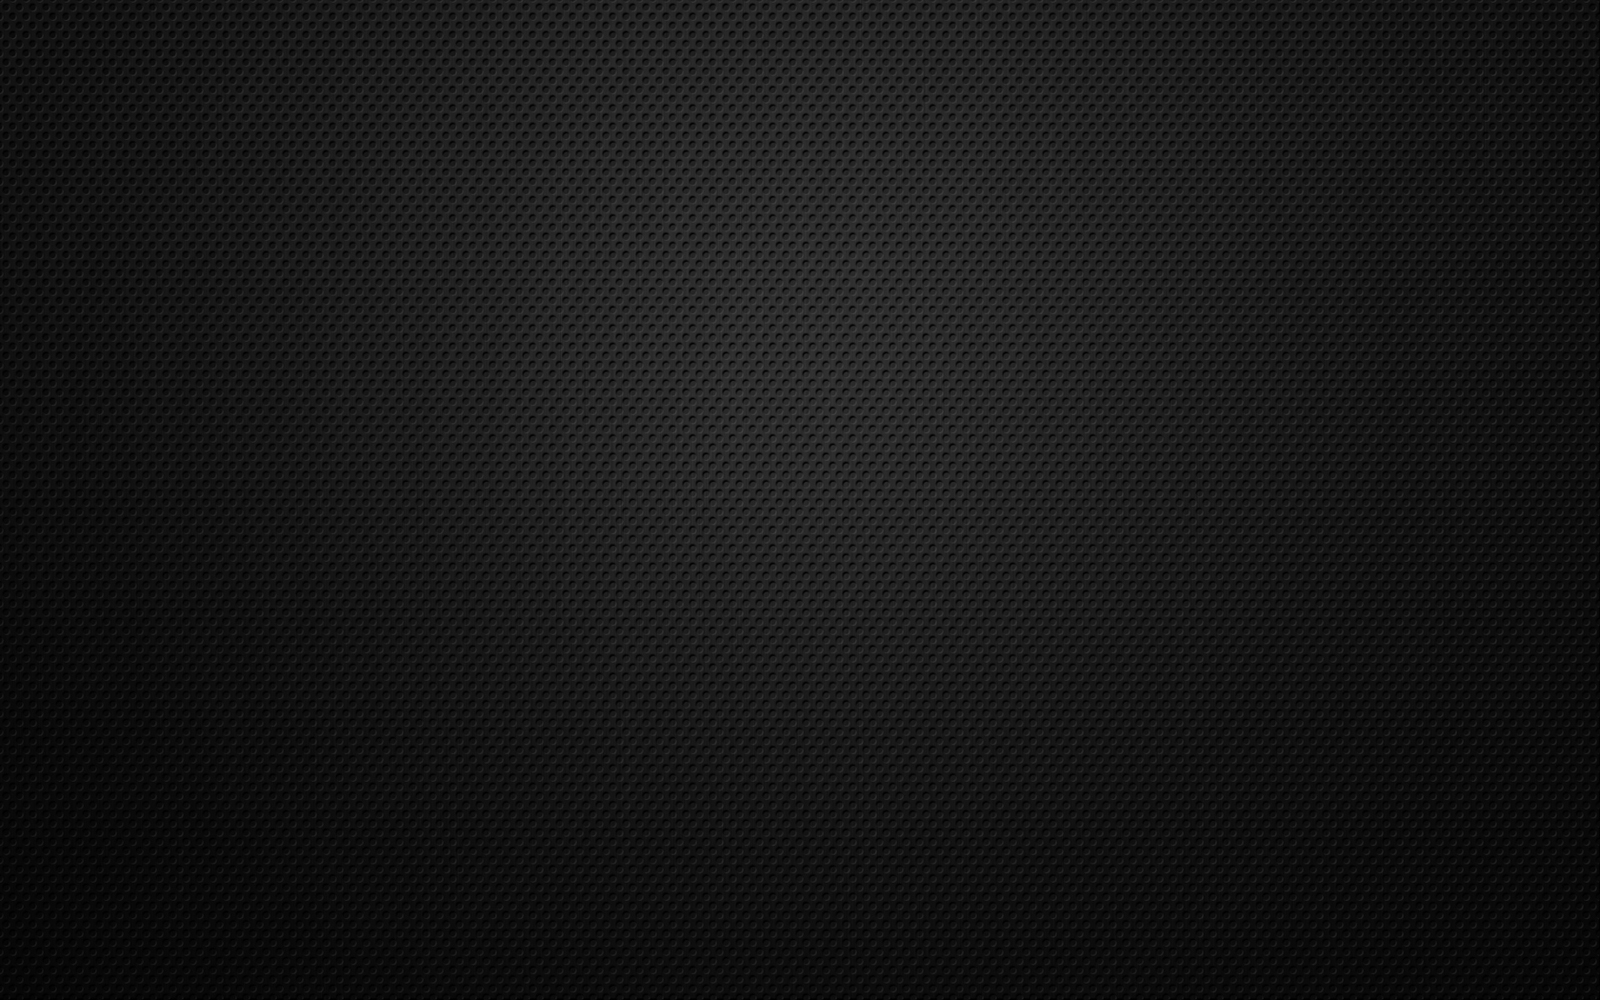
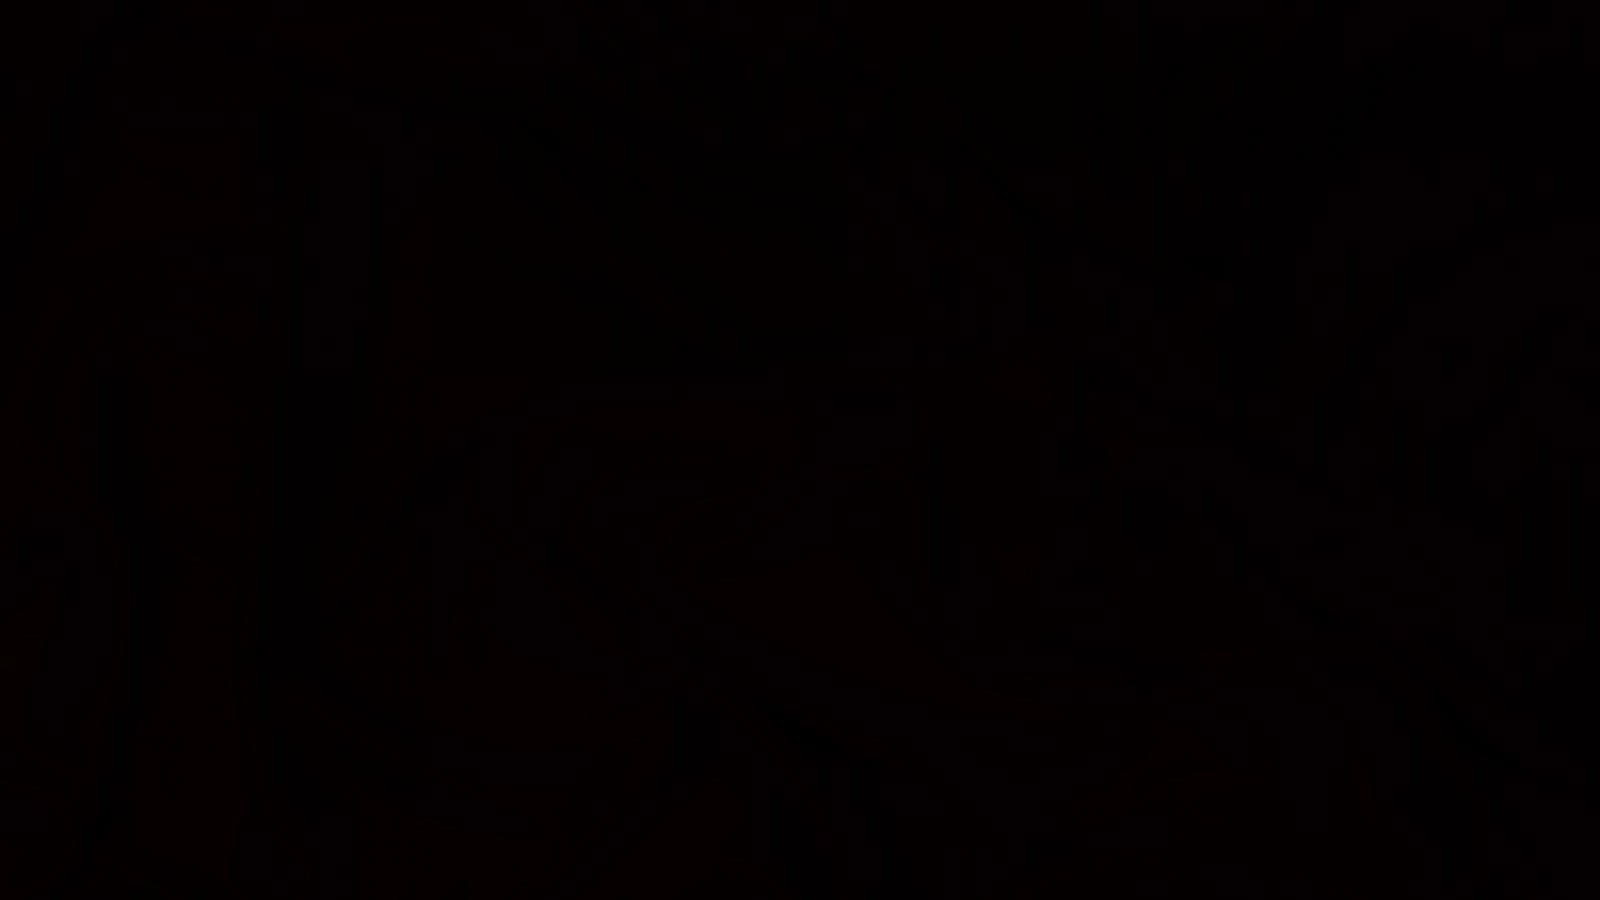
changed css

diff --git a/src/datascripts/files/main_style.css b/src/datascripts/files/main_style.css
@@ -2,35 +2,35 @@
  ul, ol, li, h1, h2, h3, h4, h5, h6, pre, form, body, html, p, blockquote, fieldset, input { margin: 0; padding: 0; }
  a img { border: 0; }
  a { text-decoration: none; }
- ::-webkit-input-placeholder { color: #626262; }
- :-moz-placeholder { color: #626262; }
- ::-moz-placeholder { color: #626262; }
- :-ms-input-placeholder { color: #626262; }
+ ::-webkit-input-placeholder { color: #000000; }
+ :-moz-placeholder { color: #000000; }
+ ::-moz-placeholder { color: #000000; }
+ :-ms-input-placeholder { color: #000000; }
  #header .wsite-search-input::-webkit-input-placeholder { color: #fff; }
  #header .wsite-search-input:-moz-placeholder { color: #fff; }
  #header .wsite-search-input::-moz-placeholder { color: #fff; }
  #header .wsite-search-input:-ms-input-placeholder { color: #fff; }
  html { height: 100%; }
- body { height: 100%; font-family: 'Open Sans', sans-serif; font-size:16px; line-height:1.75em; color:#666666; background: #232323 url('theme/default-bg.jpg?1419138491') center center no-repeat; background-size: cover; background-attachment: fixed; }
+ body { height: 100%; font-family: 'Open Sans', sans-serif; font-size:16px; line-height:1.75em; color:#000000; background: #000000 url('theme/default-bg.jpg?1419138491') center center no-repeat; background-size: cover; background-attachment: fixed; }
  .container { margin: 0 auto; width:960px; }
  #header-wrap, #main-wrap, #footer-wrap { width:100%; margin:0 auto; }
  a { color: #2a92e5 ; }
  a:hover { color: #2180cc; }
- h2 { font-size: 26px; padding: .5em 0 .2em 0; line-height: 1.2em; font-weight: 600; color:#333; text-transform:uppercase; }
- div.paragraph { font-size: 16px; line-height: 1.5; padding: .5em 0; color: #666; }
- p { font-size: 16px; line-height: 1.5; padding: .5em 0; color: #666; }
- blockquote { font-size: 16px; line-height: 28px; color: #666666; padding: 1em; margin: 2em 0; border-left: 0px !important; }
+ h2 { font-size: 26px; padding: .5em 0 .2em 0; line-height: 1.2em; font-weight: 600; color:#000000; text-transform:uppercase; }
+ div.paragraph { font-size: 16px; line-height: 1.5; padding: .5em 0; color: #000000; }
+ p { font-size: 16px; line-height: 1.5; padding: .5em 0; color: #000000; }
+ blockquote { font-size: 16px; line-height: 28px; color: #000000; padding: 1em; margin: 2em 0; border-left: 0px !important; }
  div#content {min-height:400px;}
  .styled-hr { background-color: #ccc; height: 2px; }
  #splash-wrap .styled-hr { background-color: #fff; }
- .tall-header-page, .short-header-page, .no-header-page, .landing-page { background: #232323; }
+ .tall-header-page, .short-header-page, .no-header-page, .landing-page { background: #000000; }
  .tall-header-page .wsite-background, .short-header-page .wsite-background, .landing-page .wsite-background { background: transparent url('theme/default-bg.jpg?1419138491') center center no-repeat; background-size: cover; background-attachment: fixed; }
  .tall-header-page, .landing-page, .short-header-page { background-image: none; }
  .tall-header-page #header-wrap { padding: 25px 0 12px; }
  .landing-page #header-wrap { padding: 90px 0 12px 0; -moz-box-sizing: border-box; box-sizing: border-box; height: 630px; overflow: hidden; }
  .short-header-page #header-wrap { padding: 25px 0 12px; }
  .splash-page #header-wrap { padding: 25px 0 0; height: 100%; -moz-box-sizing: border-box; box-sizing: border-box; }
- .no-header-page #header-wrap { background: #343434; padding: 25px 0; }
+ .no-header-page #header-wrap { background: #000000; padding: 25px 0; }
  #logo, #logo a { font-size: 24px; font-weight: 500; font-family: 'Open Sans', sans-serif; color: #fff; text-transform: uppercase; }
  #header { border-collapse: collapse; border-spacing: 0; height: 40px; }
  #wsite-title, #logo img { display: block; max-height: 60px; overflow: hidden; }
@@ -76,13 +76,13 @@
  .nav ul li#active, .nav ul li:hover { border:2px solid #fff; border-radius:4px; padding:6px 13px; }
  .nav ul li a { float:left; display: block; color:#fff; text-decoration:none; text-transform:uppercase; font-weight: 500; border: 0; outline: 0; list-style-type: none; font-size:14px; line-height:23px; }
  #nav-wrap .container ul li#active a, #nav-wrap .container ul li a:hover { color: #fff; background: none !important; border: 0; }
- .landing-page:before, .splash-page:before, .tall-header-page:before, .short-header-page:before { content: ''; width: 100%; height: 130px; position: fixed; top: 0; left: 0; background: transparent url('theme/menu-bg.png?1419138491') left top repeat; z-index: 1; }
+ .landing-page:before, .splash-page:before, .tall-header-page:before, .short-header-page:before { content: ''; width: 100%; height: 130px; position: fixed; top: 0; left: 0; background: #000000 url('theme/menu-bg.png?1419138491') left top repeat; z-index: 1; }
  #wsite-menus .wsite-menu { position:relative; margin-top:11px; }
  #wsite-menus .wsite-menu li ul:after { content: ""; width: 0px; height: 0px; border-style: none; border-width: 0 0px 0px 0px; border-color: transparent transparent transparent transparent; position:absolute; top:-6px; left:16px; }
- #wsite-menus .wsite-menu:after { content: ""; width: 0px; height: 0px; border-style: solid; border-width: 0 5.5px 6px 5.5px; border-color: transparent transparent #232323 transparent; position:absolute; top:-6px; left:16px; }
+ #wsite-menus .wsite-menu:after { content: ""; width: 0px; height: 0px; border-style: solid; border-width: 0 5.5px 6px 5.5px; border-color: transparent transparent #000000 transparent; position:absolute; top:-6px; left:16px; }
  #wsite-menus .wsite-menu li:first-child a { -moz-border-radius-topleft: 3px; -moz-border-radius-topright: 3px; -webkit-border-top-left-radius: 3px; -webkit-border-top-right-radius: 3px; border-top-right-radius: 3px; border-top-left-radius: 3px; }
  #wsite-menus .wsite-menu li:last-child a { -moz-border-radius-bottomleft: 3px; -moz-border-radius-bottomright: 3px; -webkit-border-bottom-left-radius: 3px; -webkit-border-bottom-right-radius: 3px; border-bottom-left-radius: 3px; border-bottom-right-radius: 3px; }
- #wsite-menus .wsite-menu li a { background: #232323; font-family: 'Open Sans', sans-serif; font-size:13px; color:#cecece; border:0; border-bottom: 1px solid #313131; }
+ #wsite-menus .wsite-menu li a { background: #000000; font-family: 'Open Sans', sans-serif; font-size:13px; color:#cecece; border:0; border-bottom: 1px solid #313131; }
  #wsite-menus .wsite-menu li a:hover { color:#fff; background:#2a2a2a ; }
  #banner td { vertical-align: middle !important; text-align: center; }
  #banner h2, #splash-wrap h2 { color: #fff; font-size: 60px; padding: 0px; }
@@ -120,7 +120,7 @@
  .wslide-caption-bg { background-color: #288ad8 !important; opacity: 0.85 !important; filter: alpha(opacity=85) !important; }
  .wslide-caption:before { content: ''; display: inline-block; vertical-align: middle; height: 100%; }
  .wslide-caption-text { display: inline-block; vertical-align: middle; text-align: center !important; width: 100%; -moz-box-sizing: border-box; box-sizing: border-box; font-size: 14px; }
- #footer-wrap { text-align:right; background-color:#232323; font-size:13px; color:#999999; }
+ #footer-wrap { text-align:right; background-color:#000000; font-size:13px; color:#999999; }
  #footer-wrap .container { padding: 50px 0 20px; }
  #footer-wrap .container h2 { border-bottom: 1px solid #3b3b3b; color: #fff; font-size: 14px; margin-bottom: 10px; padding-bottom: 8px; font-weight:normal; }
  #footer-wrap .container div.paragraph { color: #999; font-size: 13px; }
@@ -129,12 +129,12 @@
  #footer-wrap .paragraph ul #footer-wrap .paragraph ol { margin: 0 !important; padding: 0 !important; }
  #footer-wrap .paragraph li { list-style: none; background: url(theme/bullets.png?1419138491) no-repeat left 8px; padding-left: 15px !important; }
  #footer-wrap .wsite-form-container { text-align:left; margin-top:0px !important; }
- #footer-wrap .wsite-form-input, #footer-wrap .wsite-search-element-input { font-family:'Open Sans',sans-serif; font-size: 13px; color: #626262; background: #181818; border: 0; padding: 10px 6px !important; -webkit-border-radius: 5px; -moz-border-radius: 5px; border-radius: 5px; }
- #footer-wrap .form-select { color: #626262; border: 0; font-size: 13px; font-family:'Open Sans',sans-serif; font-style: italic; padding: 10px; width: 380px ; height: 40px!important; line-height: 15px; background: #181818; -webkit-border-radius: 5px; -moz-border-radius: 5px; border-radius: 5px; }
- .wsite-form-label { display: inline-block; color:#626262; font-family: 'Open Sans', sans-serif; font-size:13px; font-style:italic; font-weight:normal; }
- .form-radio-container { color:#626262 ; font-size:13px; font-family: 'Open Sans', sans-serif; }
- .wsite-form-input, .wsite-search-element-input { font-family:'Open Sans',sans-serif; font-size:13px; color:#626262; background:#e5e5e5; border:0; padding: 10px 6px !important; -webkit-border-radius:5px; -moz-border-radius:5px; border-radius:5px; }
- .form-select { color:#626262; border: 0; font-size:13px; font-family:'Open Sans',sans-serif; font-style:italic; padding:10px; width:380px ; height:40px!important; line-height:15px; background:#e5e5e5; -webkit-border-radius:5px; -moz-border-radius:5px; border-radius:5px; }
+ #footer-wrap .wsite-form-input, #footer-wrap .wsite-search-element-input { font-family:'Open Sans',sans-serif; font-size: 13px; color: #000000; background: #181818; border: 0; padding: 10px 6px !important; -webkit-border-radius: 5px; -moz-border-radius: 5px; border-radius: 5px; }
+ #footer-wrap .form-select { color: #000000; border: 0; font-size: 13px; font-family:'Open Sans',sans-serif; font-style: italic; padding: 10px; width: 380px ; height: 40px!important; line-height: 15px; background: #181818; -webkit-border-radius: 5px; -moz-border-radius: 5px; border-radius: 5px; }
+ .wsite-form-label { display: inline-block; color:#000000; font-family: 'Open Sans', sans-serif; font-size:13px; font-style:italic; font-weight:normal; }
+ .form-radio-container { color:#000000 ; font-size:13px; font-family: 'Open Sans', sans-serif; }
+ .wsite-form-input, .wsite-search-element-input { font-family:'Open Sans',sans-serif; font-size:13px; color:#000000; background:#e5e5e5; border:0; padding: 10px 6px !important; -webkit-border-radius:5px; -moz-border-radius:5px; border-radius:5px; }
+ .form-select { color:#000000; border: 0; font-size:13px; font-family:'Open Sans',sans-serif; font-style:italic; padding:10px; width:380px ; height:40px!important; line-height:15px; background:#e5e5e5; -webkit-border-radius:5px; -moz-border-radius:5px; border-radius:5px; }
  #footer-wrap .wsite-form-input, #banner-wrap .wsite-form-input, #splash-wrap .wsite-form-input { background-color: #181818; }
  .wsite-button { display: inline-block; background: #2a92e5; font-size: 13px; color: #fff !important; text-transform: uppercase; border-radius: 4px; }
  .wsite-button:hover { background-color: #288ad8; }
@@ -147,7 +147,7 @@
  #commentArea { border-top: solid 1px #dadada; padding-top: 20px; }
  .blog-sidebar h2, h2.blog-title, #commentAreaTitle, .blogCommentHeading .blogCommentAuthor { font-weight: 500; }
  .blog-post .blog-header h2.blog-title { margin-bottom: 20px !important; }
- #main-wrap .blog-title a { color: #333; }
+ #main-wrap .blog-title a { color: #000000; }
  #wsite-content #commentAreaTitle, #wsite-content #commentReplyTitle, #commentArea .blogCommentText div.paragraph, #main-wrap .blog-sidebar h2 { padding: 0; }
  #wsite-content #commentAreaTitle, #wsite-content #commentReplyTitle, #commentArea .blogCommentText p, #main-wrap .blog-sidebar h2 { padding: 0; }
  #commentAreaTitle, .blogCommentHeading, .blogCommentText div.paragraph { font-family: inherit; }
@@ -160,10 +160,10 @@
  .blogCommentHeading .blogCommentHeadingInner { height: auto; }
  .blogCommentHeading .blogCommentAuthor, .blogCommentHeading .blogCommentDate { float: none; text-align: left; height: auto; line-height: 1; padding: 0; }
  .blogCommentHeading .blogCommentAuthor { text-transform: uppercase; }
- .blogCommentHeading .blogCommentDate { color: #333; }
+ .blogCommentHeading .blogCommentDate { color: #000000; }
  .blogCommentText { padding: 0; }
- .blogCommentText div.paragraph { color: #666; font-size: 14px; }
- .blogCommentText p { color: #666; font-size: 14px; }
+ .blogCommentText div.paragraph { color: #000000; font-size: 14px; }
+ .blogCommentText p { color: #000000; font-size: 14px; }
  .wsite-form-input, .wsite-search-element-input, .form-select, .wsite-button { -webkit-transition: all 0.2s ease-in-out; -moz-transition: all 0.2s ease-in-out; -o-transition: all 0.2s ease-in-out; transition: all 0.2s ease-in-out; -webkit-transition-property: border-color, background-color, color; -moz-transition-property: border-color, background-color, color; -o-transition-property: border-color, background-color, color; transition-property: border-color, background-color, color; }
 
 div.paragraph ul, div.paragraph ol { padding-left: 2.3em !important; margin: 5px 0 !important; overflow:hidden; }
